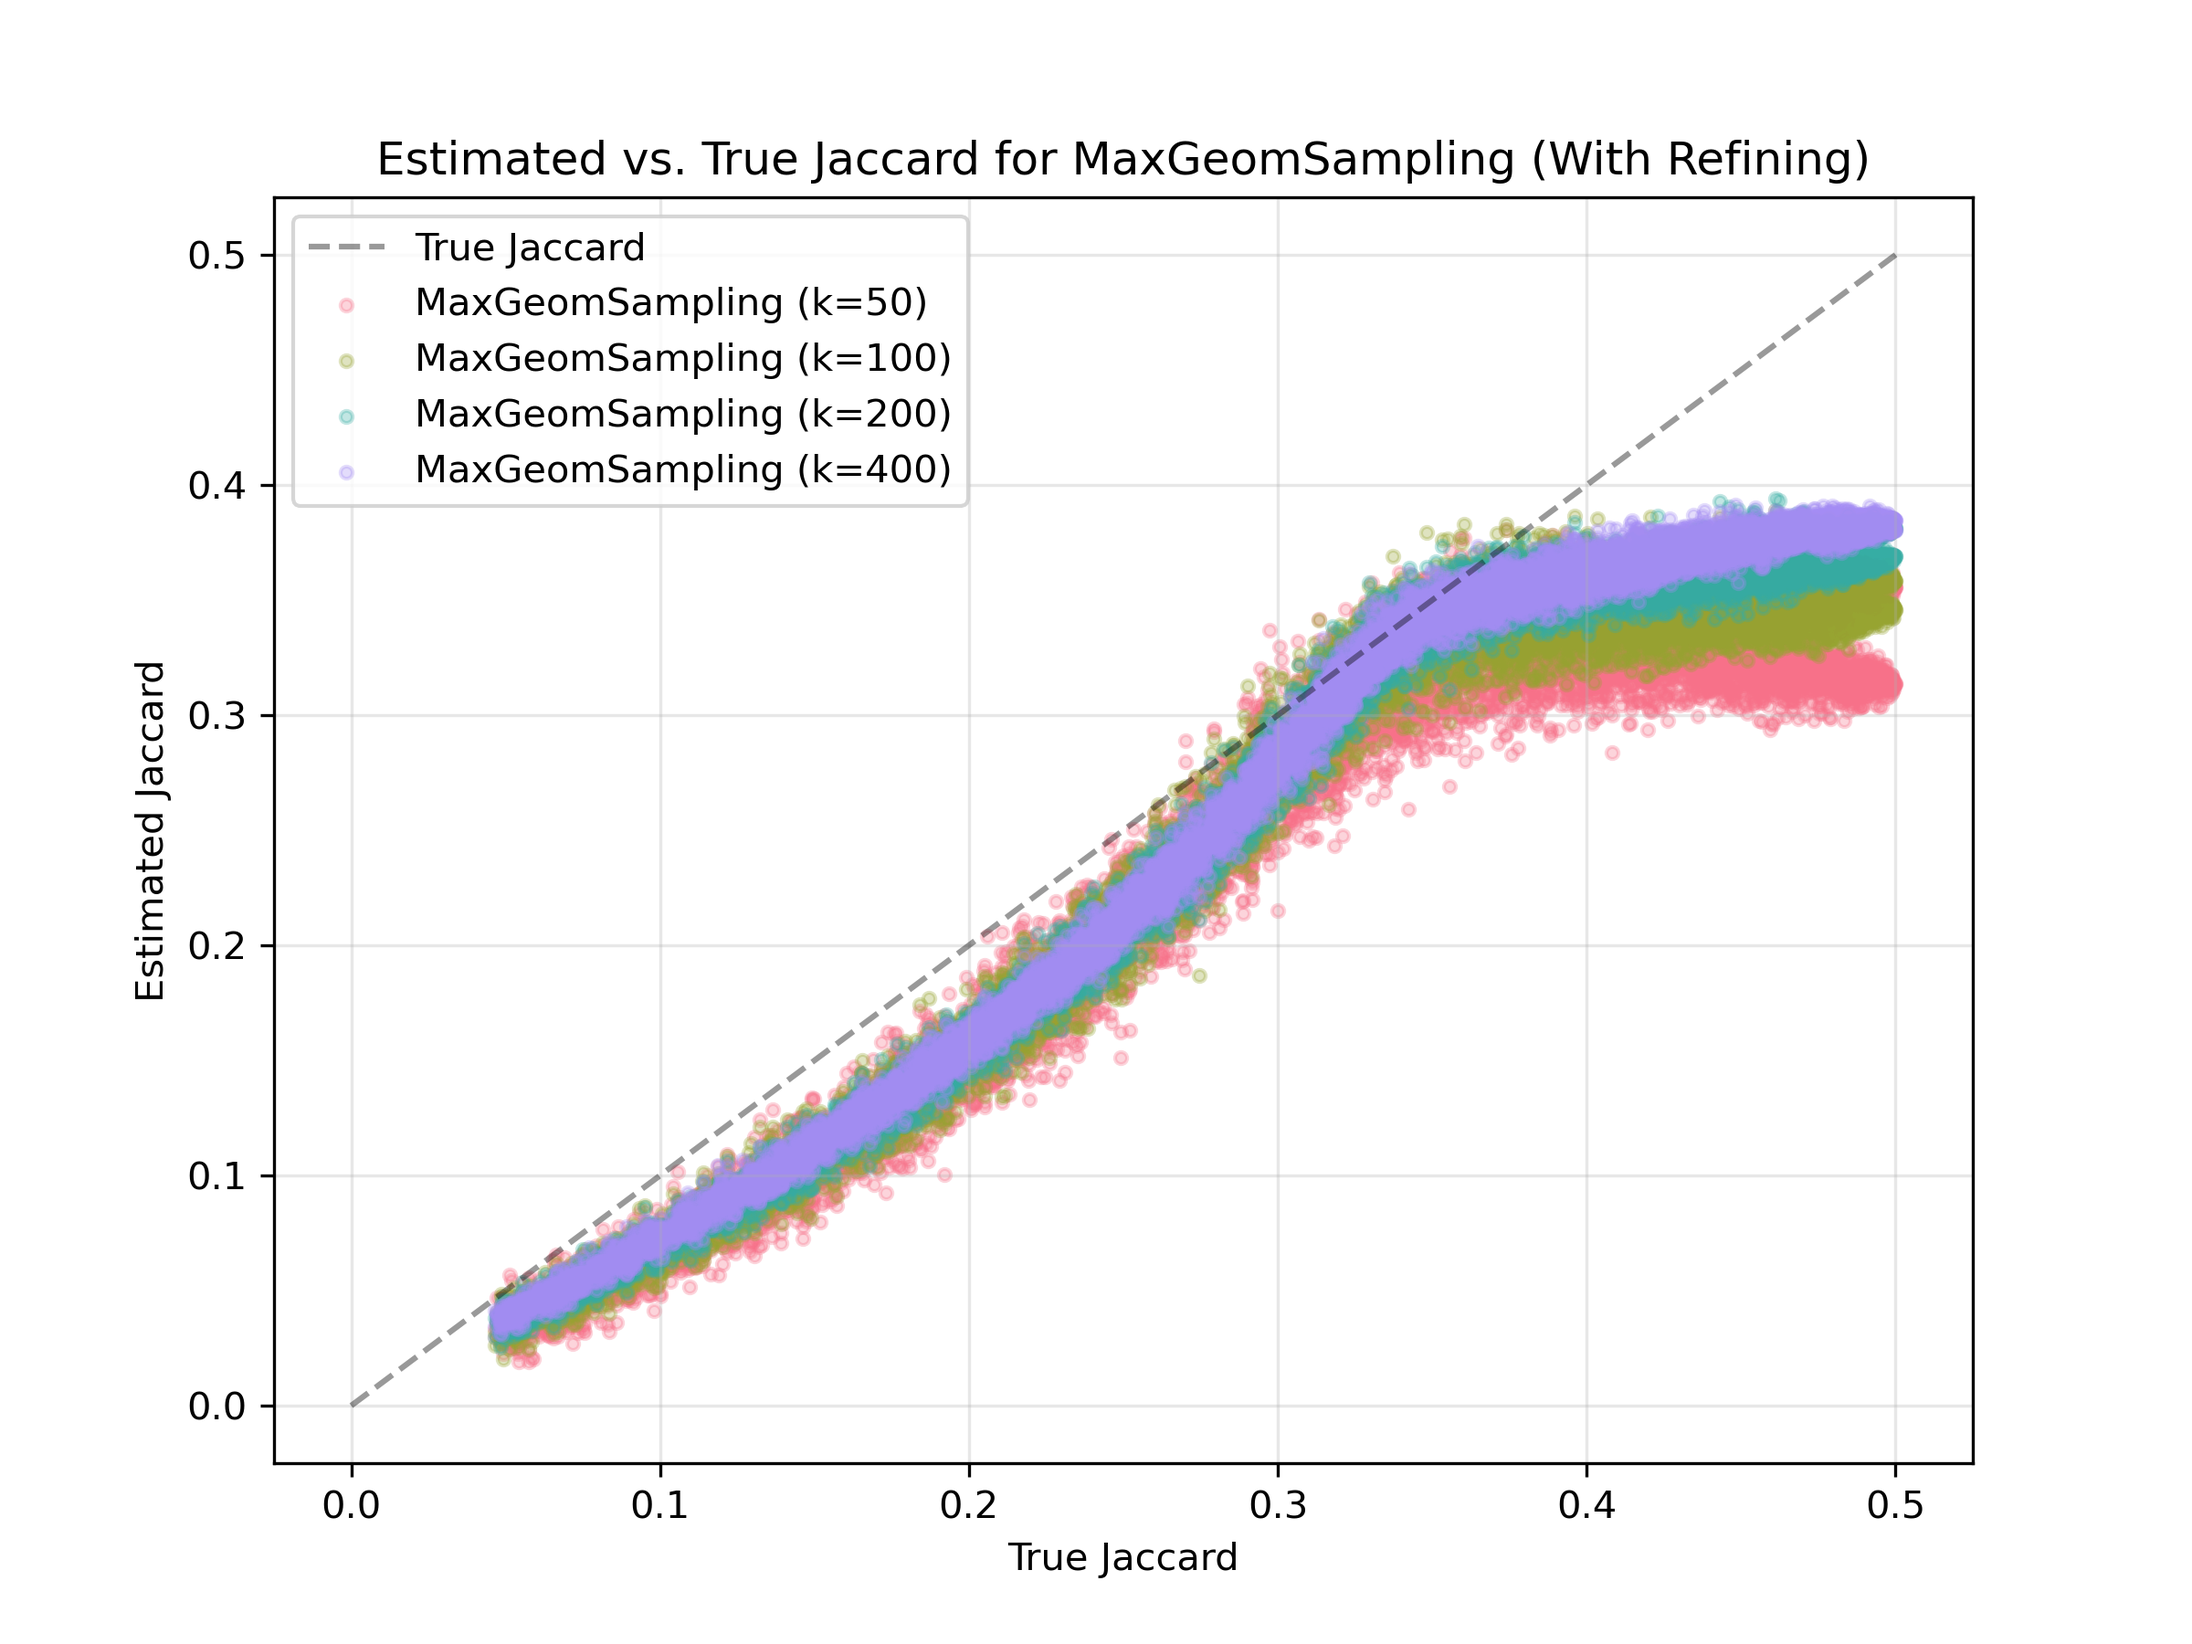
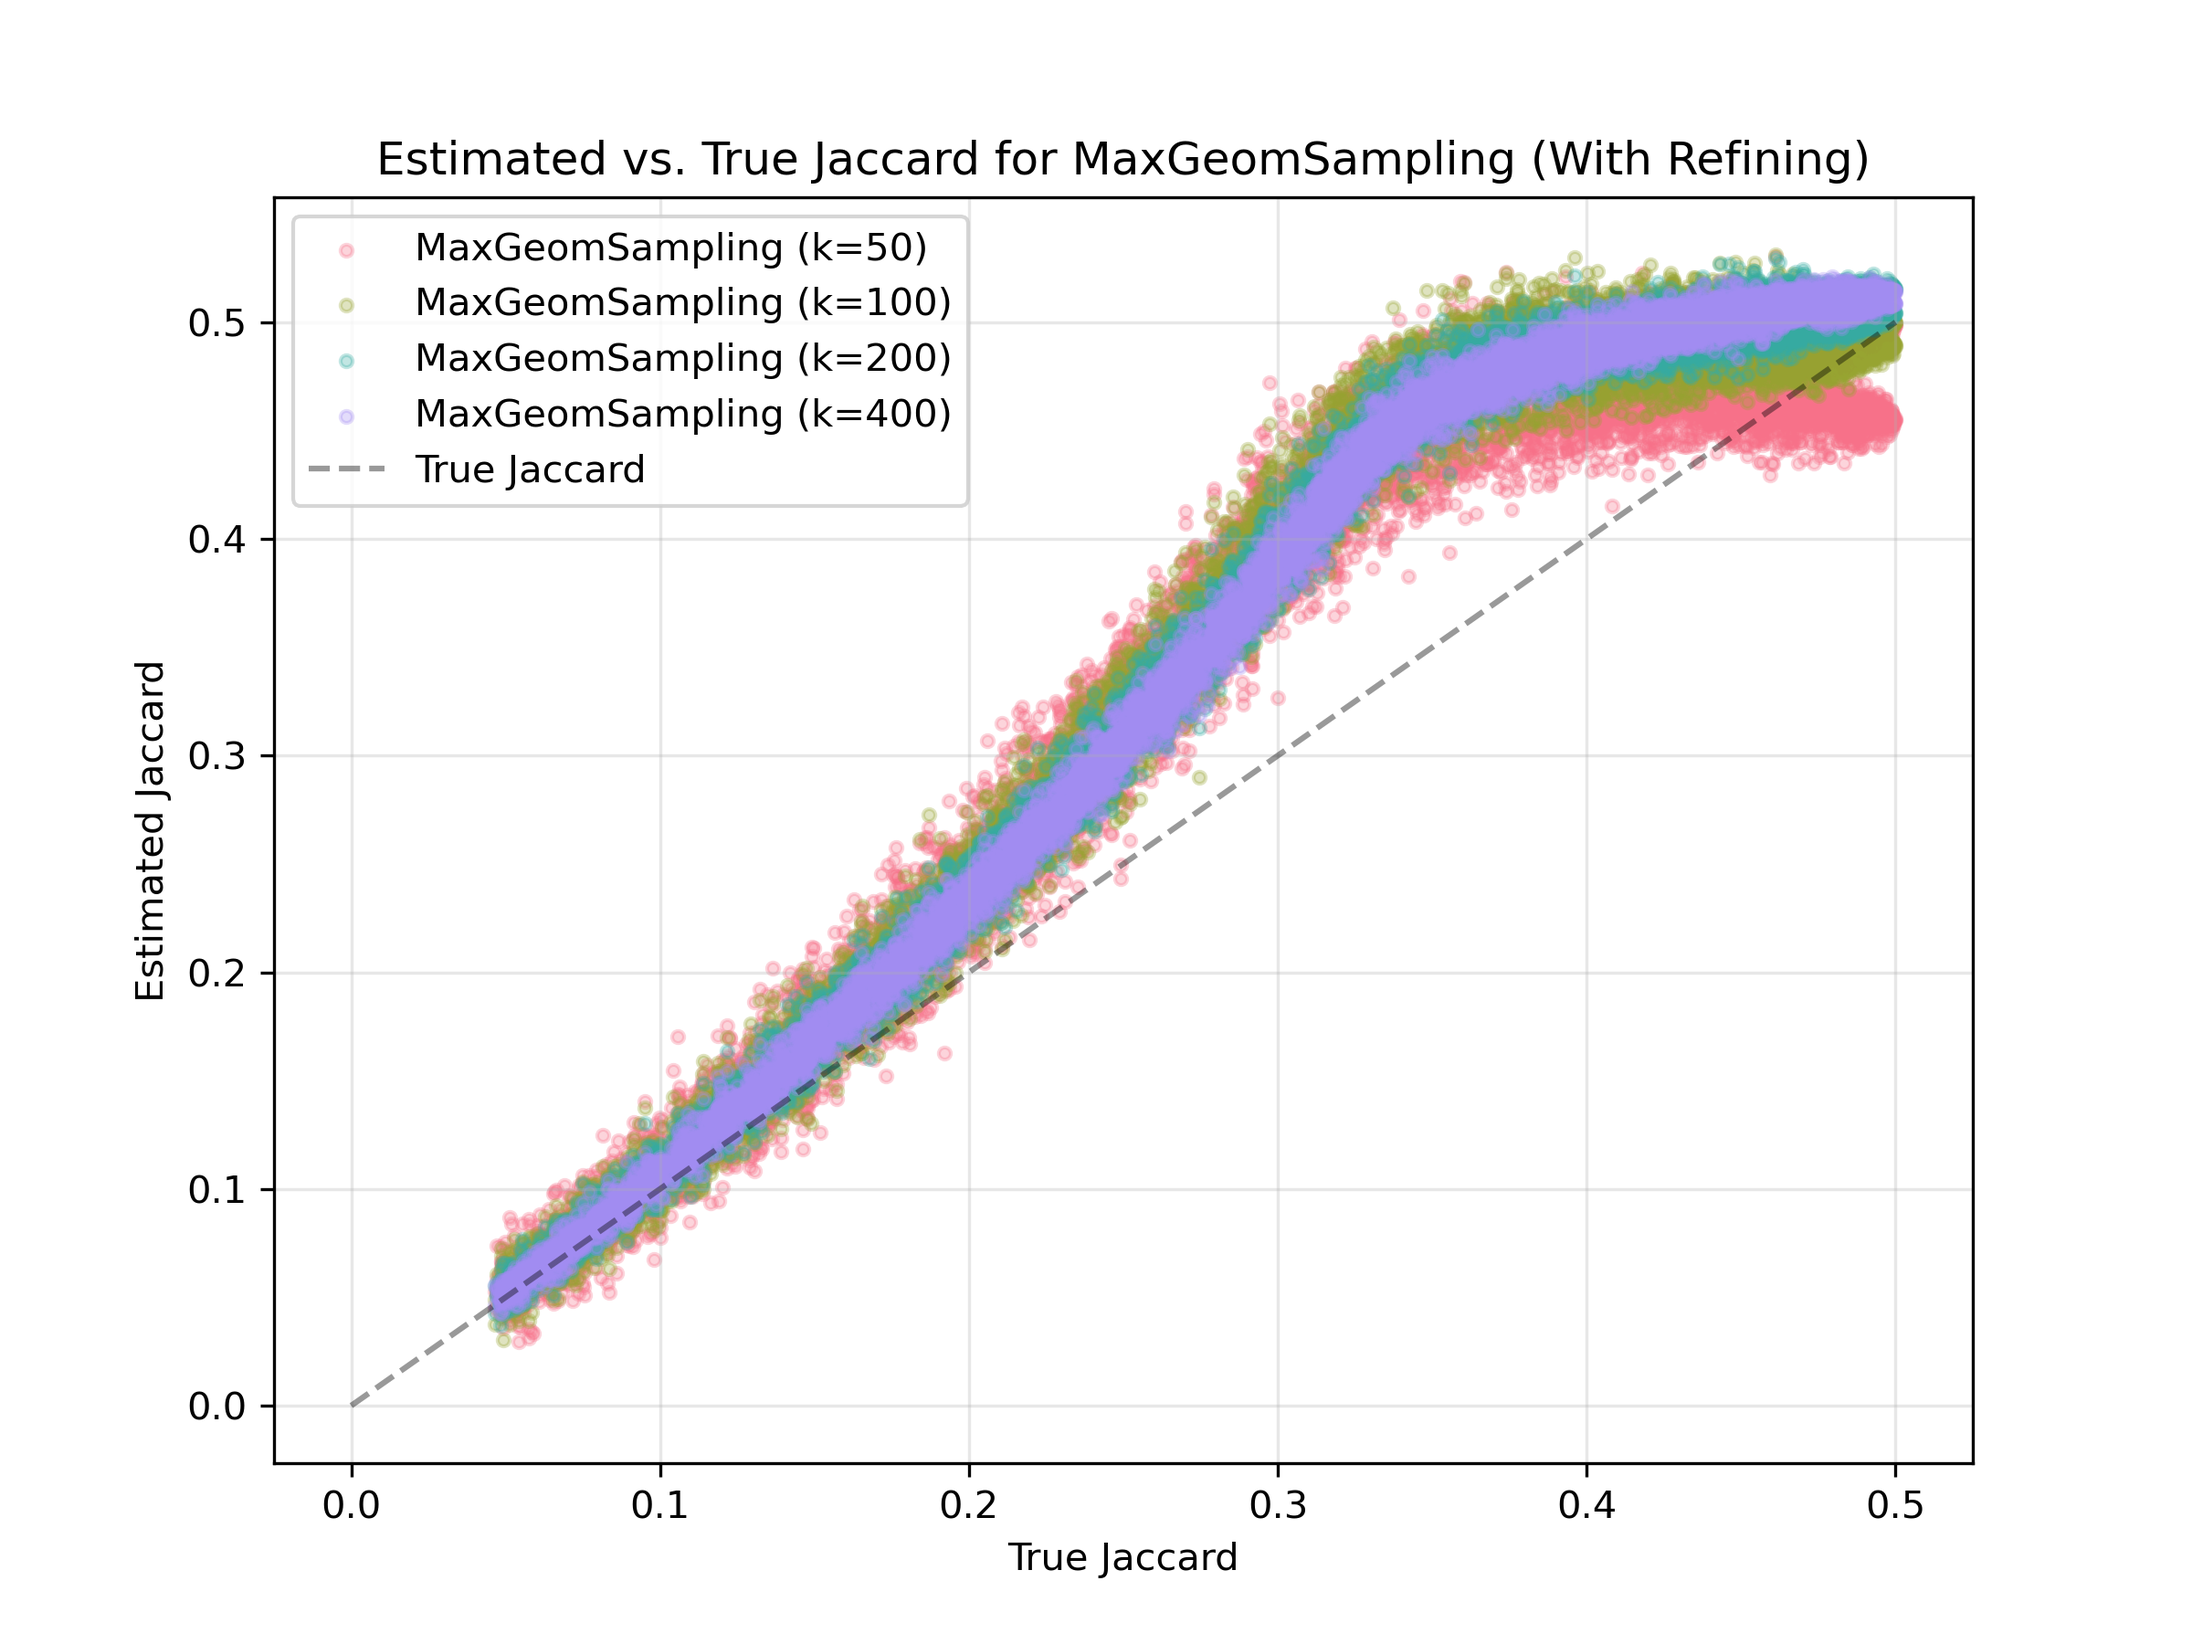
use a different "refining"

diff --git a/samplers/maxgeomsampling/MaxGeomSampling.py b/samplers/maxgeomsampling/MaxGeomSampling.py
@@ -183,11 +183,25 @@ class MaxGeomSample:
         union_size = 0
         intersection_size = 0
 
+        # get all i values that are in both buckets
+        self_valid_i = set(self._buckets.keys())
+        other_valid_i = set(other._buckets.keys())
+        common_i = self_valid_i.intersection(other_valid_i)
+
         # go over all buckets
-        for i in range(1, min(self.w, other.w) + 1):
+        for i in common_i:
+            # get the thresholds: minimum h' in each bucket
+            self_smallest_hprime = self._heaps[i][0]
+            other_smallest_hprime = other._heaps[i][0]
+            threshold = max(self_smallest_hprime[0], other_smallest_hprime[0])
+
             # get the buckets
             self_bucket = set(self._buckets.get(i, {}).keys())
             other_bucket = set(other._buckets.get(i, {}).keys())
+
+            # filter items by threshold
+            self_bucket = {z for z in self_bucket if self._buckets[i][z].hprime >= threshold}
+            other_bucket = {z for z in other_bucket if other._buckets[i][z].hprime >= threshold}
 
             # if any of the buckets is empty, break
             if len(self_bucket) == 0 or len(other_bucket) == 0:
